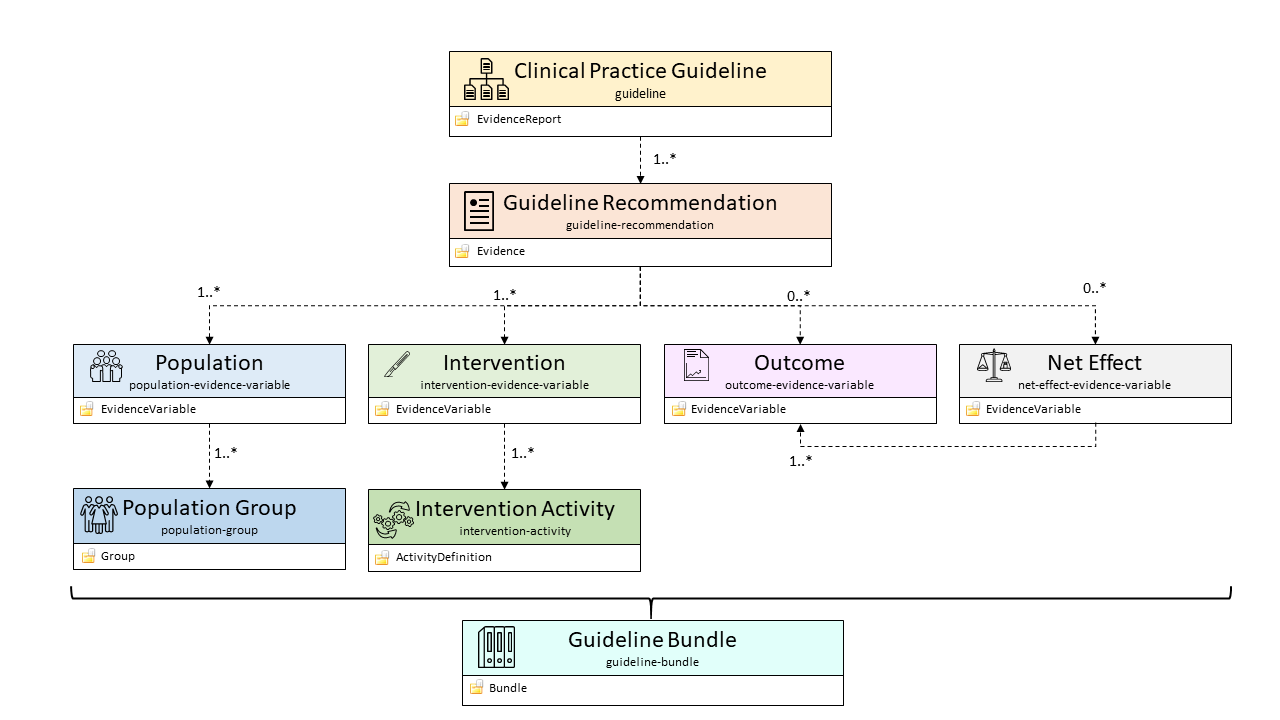
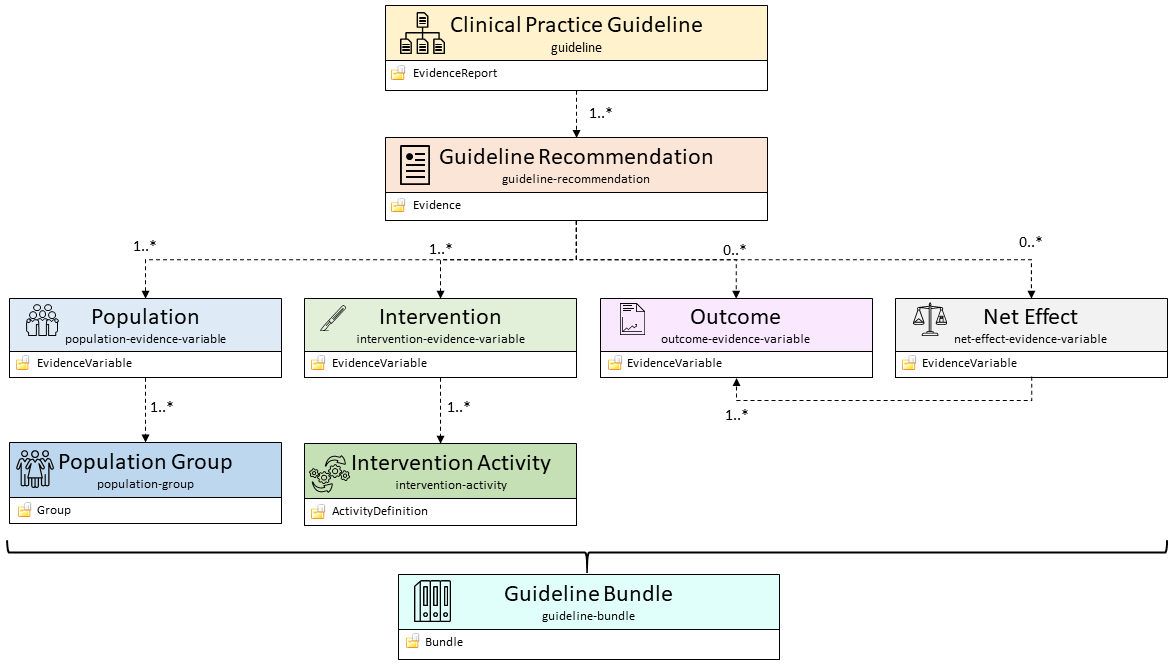
updated IG

Changed region(s): [[0.0, 0.0, 1.0, 0.9895]]

diff --git a/ceosys-template/content/assets/css/ceosys.css b/ceosys-template/content/assets/css/ceosys.css
@@ -8,6 +8,7 @@ table.grid td, table.grid th, td {
 
 p, li {
   font-size: 16px;
+  overflow:auto;
 }
 
 .navbar .nav li > a {

diff --git a/create-intros.py b/create-intros.py
@@ -39,6 +39,7 @@ linklist_general = {
     "CEOSYS": "https://covid-evidenz.de/",
     "NUM": "https://www.netzwerk-universitaetsmedizin.de/",
     "EMBonFHIR": "https://confluence.hl7.org/display/CDS/EBMonFHIR",
+    "COCHRANELD": "https://data.cochrane.org/concepts/",
 }
 
 if not ig_fname.exists():
@@ -79,6 +80,9 @@ for resource in ig["definition"]["resource"]:
     if ref.startswith('ValueSet/'):
         linklist_vs[resource["name"]] = ref.replace('/', '-') + '.html'
 
+    if ref.startswith('CodeSystem/'):
+        linklist[resource["name"]] = ref.replace('/', '-') + '.html'
+
     if not ref.startswith('StructureDefinition/') and not ref.startswith('Questionnaire/'):
       continue
 
@@ -97,11 +101,15 @@ if not linklist_fname.parent.exists():
 
 print(linklist_fname.name)
 with open(linklist_fname, 'w') as f:
-    for k, v in linklist.items():
-        f.write(f'[{k}]: {v}\n')
-    f.write("\n")
-    for k, v in linklist_general.items():
-        f.write(f'[{k}]: {v}\n')
+    def write_links(ll, newline=True):
+        for k, v in ll.items():
+            f.write(f'[{k}]: {v}\n')
+        if newline:
+            f.write("\n")
+
+    write_links(linklist)
+    write_links(linklist_vs)
+    write_links(linklist_general, newline=False)
 
 print(profiles_fname.name)
 with open(profiles_fname, 'w') as f:

diff --git a/input/intro-notes/StructureDefinition-guideline-recommendation-intro.md b/input/intro-notes/StructureDefinition-guideline-recommendation-intro.md
@@ -1,14 +1,88 @@
+{% include variables.md %}
 {% assign id = {{include.id}} %}
 {% assign resource = site.data.structuredefinitions.[id] %}
 
 ### Guidance
 
 
+This profile encodes a single recommendation from a clincal practice guideline. Next to metadata such as `identifier`, `version`, `title`, `date` and `description`, this resource holds the definitions of the population (via references to [Population EvidenceVariable resources][Population]), intervention (via references to [Intervention EvidenceVariable resources][Intervention]) and optionally outcome (via references to [Outcome EvidenceVariable resources][Outcome]) and net effect (via references to [Net Effect EvidenceVariable resources][Net Effect]) that the guideline recommendation adresseses.
+
+<img alt="FHIR Guideline Recommendation" src="01-guideline-recommendation.png" style="width:100%;" />
 
 {% capture resource_inheritance %}
 This profile of a FHIR {{resource.type}} is derived from the [{{resource.base | split: '/' | last}}]({{resource.base}}) FHIR resource.
 {% endcapture %}
 
 {{ resource_inheritance | strip_newlines }}
+
+#### Recommendation Strength
+The strength of the recommendation is supplied via the [Strength of Recommendation extension](http://hl7.org/fhir/StructureDefinition/cqf-strengthOfRecommendation). Valid codes are given in the [Recommendation Strength value set][Recommendation Strength] and are as follows:
+
+{% include ValueSet-ceosys-vs-recommendation-strength-expansion.xhtml %}
+{:.grid}
+
+#### Certainty
+
+Certainty of the recommendation is coded using the `certainty` field. Two types of certainty of the recommendation are regularly coded:
+
+| Code | Display | Definition |
+| ---- | ------- | ---------- |
+| [Overall]({{ fhir_base_url }}codesystem-certainty-type.html#certainty-type-Overall) | Overall certainty | Overall certainty of evidence (quality of evidence). |
+| [RiskOfBias]({{ fhir_base_url }}codesystem-certainty-type.html#certainty-type-RiskOfBias) | Risk of bias | Methodologic concerns reducing internal validity. |
+{:.grid}
+
+#### Overall Certainty
+
+Other types of certainties may coded using codes from the [Certainty Type value set](
+{{ fhir_base_url }}valueset-certainty-type.html)
+
+
+Codes used to rate the [Overall certainty]({{ fhir_base_url }}codesystem-certainty-type.html#certainty-type-Overall) are:
+
+| Code | Display | Definition |
+| ---- | ------- | ---------- |
+| [high]({{ fhir_base_url }}codesystem-certainty-rating.html#certainty-rating-high) | High quality | High quality evidence. |
+| [moderate]({{ fhir_base_url }}codesystem-certainty-rating.html#certainty-rating-moderate) | Moderate quality | Moderate quality evidence. |
+| [low]({{ fhir_base_url }}codesystem-certainty-rating.html#certainty-rating-low) | Low quality | Low quality evidence. |
+| [very-low]({{ fhir_base_url }}codesystem-certainty-rating.html#certainty-rating-very-low) | Very low quality | Very low quality evidence. |
+{:.grid}
+
+#### Risk of Bias
+
+Codes used to rate the [Risk Of Bias]({{ fhir_base_url }}codesystem-certainty-type.html#certainty-type-RiskOfBias) are:
+
+| Code | Display | Definition |
+| ---- | ------- | ---------- |
+| [no-concern]({{ fhir_base_url }}codesystem-certainty-rating.html#certainty-rating-no-concern) | no serious concern | no serious concern. |
+| [serious-concern]({{ fhir_base_url }}codesystem-certainty-rating.html#certainty-rating-serious-concern) | serious concern | serious concern. |
+| [very-serious-concern]({{ fhir_base_url }}codesystem-certainty-rating.html#certainty-rating-very-serious-concern) | very serious concern | very serious concern. |
+| [extremely-serious-concern]({{ fhir_base_url }}codesystem-certainty-rating.html#certainty-rating-extremely-serious-concern) | extremely serious concern | extremely serious concern. |
+{:.grid}
+
+Additional codes may be found in the [Certainty Rating value set]({{ fhir_base_url }}valueset-certainty-rating.html):
+
+
+#### Net Effect
+The net effect (net benefit / net harm) can be used to weigh the different outcomes due to an intervention by their relative importance, to get an estimate of the total, or net, benefit or harm of the recommened intervention. To code the net effect, a slice of the `statistic` field is used with the following fields.
+
+For more information on the net effect, see
+[Alper, B. S. et al. Defining certainty of net benefit: a GRADE concept paper. BMJ Open 9, e027445 (2019)](https://bmjopen.bmj.com/content/9/6/e027445.long).
+
+
+| Field | Description |
+| ----- | ----------- |
+| `statistic.description` | Fixed to "Net Effect" |
+| `statistic.quantity` | The estimated net effect as a FHIR `Quantity` |
+| `statistic.statisticType` | Fixed to `#Risk Difference` |
+| `statistic.attributeEstimate[confidenceInterval].type` | Fixed to `#C53324 "Confidence interval"` |
+| `statistic.attributeEstimate[confidenceInterval].range` | The low and high value of the 95% confidence interval of the net effect. |
+| `statistic.attributeEstimate[confidenceInterval].level` | Fixed to 0.95 (for 95% CI) |
+| `statistic.modelCharacteristic[*].code` | Fixed to `#relative-importance-weighting` to describe the relative importance weighting of the different outcomes |
+| `statistic.modelCharacteristic[*].value` | Relative importance weight for the Outcome referenced in `.variableDefinition` |
+| `statistic.modelCharacteristic[*].variable.variableDefinition` | Reference to the [Outcome EvidenceVariable][Outcome] for which the relative importance value is specified |
+{:.grid}
+
+
+
 
 {% include link-list.md %}

diff --git a/input/pagecontent/index.md b/input/pagecontent/index.md
@@ -2,12 +2,44 @@
 
 This implementation guide describes an [evidence-based medicine on FHIR (EBMonFHIR)][EMBonFHIR] approach to represent clinical practice guidelines using FHIR resources.
 
+Apart from representing the actual treatment recommendations provided by the guidelines, a large set of metadata regarding the guideline creation process (risk of bias, certainty, authorships etc.) is also encoded.
+The representation of clinical practice guidelines is oriented to the PICO (population, intervention/exposure, comparator, outcome) framework.
+
+The main elements of a clinical practice guideline in the context of this FHIR implementation guide is represented in the following table:
+
+| Name | FHIR Resource | Description | References |
+| ---- | ------------- | ----------- | ---------- |
+| Clinical Practice Guideline | [EvidenceReport][Clinical Practice Guideline] | Representation of the whole guideline. | [Guideline Recommendations][Guideline Recommendation] |
+| Guideline Recommendation | [Evidence][Guideline Recommendation] | Representation of a single recommendation from a guideline | [Population][Population], [Intervention][Intervention], [Outcome][Outcome] and [Net Effect][Net Effect] pertinent to the guideline recommendation. |
+| Population | [EvidenceVariable][Population] | Description of the population to which a specific guideline recommendation applies. | [Population Groups][Population Group] making up the population addressed in the recommendation. |
+| Intervention | [EvidenceVariable][Intervention] | Description of recommmended intervention addressed in a specific guideline recommendation. | [Intervention Activities][Intervention Activity] specified in the guideline recommendation. |
+| Outcome | [EvidenceVariable][Outcome] | Description of the (expected) outcome of a specific guideline recommendation | - |
+{:.grid}
+
+Additionally, the following profiles are used to specify a guideline:
+
+| Name | FHIR Resource | Description | References |
+| ---- | ------------- | ----------- | ---------- |
+| Population Group | [Group][Population Group] | Characterization of a group of patients or subjects for which a clinical guideline recommends a treatment or intervention. | - |
+| Intervention Activity | [ActivityDefinition][Intervention Activity] | Definition of an activity that is part of an intervention in the context of a clinical practice guideline recommendation. | - |
+| Net Effect | [EvidenceVariable][Net Effect] | Description of the net effect of a guideline recommendation. | (Expected) [Outcomes][Outcome] of a guideline recommendation. |
+| Guideline Bundle | [Bundle][Guideline Bundle] | Bundle of all resources of a single clinical practice guideline. | All other resources in this IG. |
+{:.grid}
+
+The following diagram provides an overview of the different profiles used in this implementation guide and their relationship:
+
 <img alt="FHIR package structure overview" src="fhir-structure-overview.png" style="width:100%;" />
 
 ### Detailed
 
+The following diagram provides a more detailed view on the important fields of the profiles and their relationships. For a consistent detailed view, please visit the pages of the individual [profiles](profiles.html).
+
+In short, a [single guideline recommendation][Guideline Recommendation] describes a specific group of patients (the "population"), for which a certain treatment (or the absence from treatment) is recommened (the "intervention"). As the guideline recommendations are based on meta-analyses of clinical studies, the expected outcome of the recommended intervention on the patients may also be encoded. This additionally allows to specify the net effect of the recommendation by weighting the individual outcomes by their relative importance. For more information on the net effect, see [Alper, B. S. et al. Defining certainty of net benefit: a GRADE concept paper. BMJ Open 9, e027445 (2019)](https://bmjopen.bmj.com/content/9/6/e027445.long).
+
 <img alt="FHIR package structure detailed" src="fhir-structure-detailed.png" style="width:100%;" />
-<img alt="FHIR package bundle" src="fhir-structure-bundle.png" style="width:100%;" />
+<img alt="FHIR package bundle" src="fhir-structure-bundle.png" style="width:74%%;" />
+
+<br/>
 
 ### Authors
 * [Gregor Lichtner](https://github.com/glichtner) (Charité -- Universitäsmedizin Berlin)

diff --git a/input/intro-notes/StructureDefinition-intervention-evidence-variable-intro.md b/input/intro-notes/StructureDefinition-intervention-evidence-variable-intro.md
@@ -4,6 +4,17 @@
 ### Guidance
 
 
+This profile describe the metadata of a recommended intervention for a specific [Guideline Recommendation][Guideline Recommendation] and references the [Intervention ActivityDefinition resources][Intervention Activity] that in combination define the intervention that are part of the recommendation.
+
+| Field | Description |
+| ----- | ----------- |
+| `characteristicCombination` | Fixed to `#all-of`, implying that all referenced [Intervention Activities][Intervention Activity] are recommended together. |
+| `characteristic.type` | Type of intervention (from [Cochrane PICO Intervention value set][Cochrane PICO Intervention]). |
+| `characteristic.definitionReference` | Reference to [Intervention ActivityDefinition resources][Intervention Activity] defining the intervention. |
+| `characteristic.exclude` | Whether to exclude the referenced [Intervention ActivityDefinition resources][Intervention Activity] from the guideline recommendation. |
+{:.grid}
+
+<img alt="FHIR Intervention" src="03-intervention.png" style="width:100%;" />
 
 {% capture resource_inheritance %}
 This profile of a FHIR {{resource.type}} is derived from the [{{resource.base | split: '/' | last}}]({{resource.base}}) FHIR resource.

diff --git a/input/intro-notes/StructureDefinition-population-evidence-variable-intro.md b/input/intro-notes/StructureDefinition-population-evidence-variable-intro.md
@@ -3,7 +3,18 @@
 
 ### Guidance
 
+This profile describe the metadata of a population for a specific [Guideline Recommendation][Guideline Recommendation] and references the [Population Group resources][Population Group] that in combination define the population that the recommendation adresses.
 
+| Field | Description |
+| ----- | ----------- |
+| `characteristicCombination` | Fixed to `#any-of`, implying that this recommendation applies to any of the referenced [Population Groups][Population Group]. |
+| `characteristic.type` | Type of population (from [Cochrane PICO Population value set][Cochrane PICO Population]). |
+| `characteristic.definitionReference` | Reference to [Population Group][Population Group] defining a population. |
+| `characteristic.exclude` | Whether to exclude the referenced [Population Group][Population Group] from the guideline recommendation. |
+{:.grid}
+
+
+<img alt="FHIR Population" src="02-population.png" style="width:100%;" />
 
 {% capture resource_inheritance %}
 This profile of a FHIR {{resource.type}} is derived from the [{{resource.base | split: '/' | last}}]({{resource.base}}) FHIR resource.

diff --git a/input/intro-notes/StructureDefinition-net-effect-evidence-variable-intro.md b/input/intro-notes/StructureDefinition-net-effect-evidence-variable-intro.md
@@ -3,7 +3,20 @@
 
 ### Guidance
 
+This profile describe the metadata of the net effect for a specific [Guideline Recommendation][Guideline Recommendation] and references the [Outcomes][Outcome] that are aggregated to yield the net effect.
 
+For more information on the net effect, see
+[Alper, B. S. et al. Defining certainty of net benefit: a GRADE concept paper. BMJ Open 9, e027445 (2019)](https://bmjopen.bmj.com/content/9/6/e027445.long).
+
+| Field | Description |
+| ----- | ----------- |
+| `characteristicCombination` | Fixed to `#net-effect`. |
+| `characteristic.type` | Type of outcome (from [Cochrane PICO Outcome value set][Cochrane PICO Outcome]). |
+| `characteristic.definition` | Reference to a [Outcome EvidenceVariable resource][Outcome] describing the (expected) outcome. |
+| `characteristic.exclude` | Fixed to `false`. |
+{:.grid}
+
+<img alt="FHIR Net Effect" src="05-net-effect.png" style="width:100%;" />
 
 {% capture resource_inheritance %}
 This profile of a FHIR {{resource.type}} is derived from the [{{resource.base | split: '/' | last}}]({{resource.base}}) FHIR resource.

diff --git a/input/intro-notes/StructureDefinition-ceosys-extension-reference-activity-definition-intro.md b/input/intro-notes/StructureDefinition-ceosys-extension-reference-activity-definition-intro.md
@@ -1,0 +1,18 @@
+{% include variables.md %}
+{% assign id = {{include.id}} %}
+{% assign resource = site.data.structuredefinitions.[id] %}
+
+### Guidance
+
+This extension adds the possibility to reference an [ActivityDefinition resource]({{ fhir_base_url }}activitydefinition.html). It is used on `[EvidenceVariable]({{ fhir_base_url }}evidencevariable.html).characteristic.definitionReference`, as this currently ([FHIR 5.0.0-snapshot1](http://hl7.org/fhir/5.0.0-snapshot1/)) only allows to references to [Group]({{ fhir_base_url }}group.html) or [EvidenceVariable]({{ fhir_base_url }}evidencevariable.html).
+
+This extention is only a workaround until [FHIR issue 32645](https://jira.hl7.org/browse/FHIR-32645) has been processed and will be removed once this has happened.
+{:.stu-note}
+
+{% capture resource_inheritance %}
+This profile of a FHIR {{resource.type}} is derived from the [{{resource.base | split: '/' | last}}]({{resource.base}}) FHIR resource.
+{% endcapture %}
+
+{{ resource_inheritance | strip_newlines }}
+
+{% include link-list.md %}

diff --git a/input/includes/link-list.md b/input/includes/link-list.md
@@ -11,7 +11,19 @@
 [EvidenceReport Version]: StructureDefinition-ceosys-extension-evidencereport-version.html
 [Reference Activity Definition]: StructureDefinition-reference-activity-definition.html
 
+[CEOsys Code System]: CodeSystem-ceosys-code-system.html
+[CochraneCoreOntology]: CodeSystem-cochrane-core-ontology.html
+[CochranePICOOntology]: CodeSystem-cochrane-pico-ontology.html
+[Recommendation Strength]: CodeSystem-ceosys-cs-recommendation-strength.html
+
+[Cochrane PICO]: ValueSet-cochrane-pico.html
+[Cochrane PICO Intervention]: ValueSet-cochrane-pico-intervention.html
+[Cochrane PICO Outcome]: ValueSet-cochrane-pico-outcome.html
+[Cochrane PICO Population]: ValueSet-cochrane-pico-population.html
+[Recommendation Strength]: ValueSet-ceosys-vs-recommendation-strength.html
+
 [SNOMEDCT]: http://snomed.info/sct
+[COCHRANELD]: https://data.cochrane.org/concepts/
 [LOINC]: http://loinc.org/
 [UCUM]: http://unitsofmeasure.org
 [VSdataAbsentReason]: http://hl7.org/fhir/R4/valueset-data-absent-reason.html

diff --git a/input/intro-notes/StructureDefinition-outcome-evidence-variable-intro.md b/input/intro-notes/StructureDefinition-outcome-evidence-variable-intro.md
@@ -2,8 +2,17 @@
 {% assign resource = site.data.structuredefinitions.[id] %}
 
 ### Guidance
+This profile describe the metadata of the outcome for a specific [Guideline Recommendation][Guideline Recommendation] and references or specifies the (expected) outcomes of the intervention on the population.
 
+| Field | Description |
+| ----- | ----------- |
+| `characteristicCombination` | Fixed to `#all-of`, implying that this recommendation leads to all of the described outcomes. |
+| `characteristic.type` | Type of outcome (from [Cochrane PICO Outcome value set][Cochrane PICO Outcome]). |
+| `characteristic.definition` | CodeableConcept or Reference to a resource describing the (expected) outcome. |
+| `characteristic.exclude` | Fixed to `false`. |
+{:.grid}
 
+<img alt="FHIR Outcome" src="04-outcome.png" style="width:100%;" />
 
 {% capture resource_inheritance %}
 This profile of a FHIR {{resource.type}} is derived from the [{{resource.base | split: '/' | last}}]({{resource.base}}) FHIR resource.

diff --git a/input/intro-notes/StructureDefinition-ceosys-extension-evidencereport-version-intro.md b/input/intro-notes/StructureDefinition-ceosys-extension-evidencereport-version-intro.md
@@ -1,9 +1,10 @@
+{% include variables.md %}
 {% assign id = {{include.id}} %}
 {% assign resource = site.data.structuredefinitions.[id] %}
 
 ### Guidance
 
-This extension provides a version attribute for the [EvidenceReport resource](http://build.fhir.org/evidencereport.html), as it currently does not implement the field ([FHIR 5.0.0-snapshot1](http://hl7.org/fhir/5.0.0-snapshot1/)), although it is derived from [MetadataResource](http://build.fhir.org/metadataresource.html) and thus should implement the version attribute.
+This extension provides a version attribute for the [EvidenceReport resource]({{ fhir_base_url }}evidencereport.html), as it currently does not implement the field ([FHIR 5.0.0-snapshot1](http://hl7.org/fhir/5.0.0-snapshot1/)), although it is derived from [MetadataResource]({{ fhir_base_url }}metadataresource.html) and thus should implement the version attribute.
 
 
 {% capture resource_inheritance %}

diff --git a/input/intro-notes/StructureDefinition-population-group-intro.md b/input/intro-notes/StructureDefinition-population-group-intro.md
@@ -3,7 +3,19 @@
 
 ### Guidance
 
+This profile defines a specific (but not actual) group of patients as part of a [Population][Population] addressed by a single [Guideline Recommendation][Guideline Recommendation].
 
+The characteristics of the patient group are coded using the `characteristic` field.
+
+| Field | Description |
+| ----- | ----------- |
+| `type` | Fixed to `#person` |
+| `actual` | Fixed to `false` |
+| `characteristic.code` | Code defining a property of the group ([SNOMED CT][SNOMEDCT] (required) or [Cochrane Linked Data][COCHRANELD] (optional)) |
+| `characteristic.value[x]` | Value of the `code` defining the population. |
+{:.grid}
+
+<img alt="FHIR Population Group" src="06-population-group.png" style="width:100%;" />
 
 {% capture resource_inheritance %}
 This profile of a FHIR {{resource.type}} is derived from the [{{resource.base | split: '/' | last}}]({{resource.base}}) FHIR resource.
